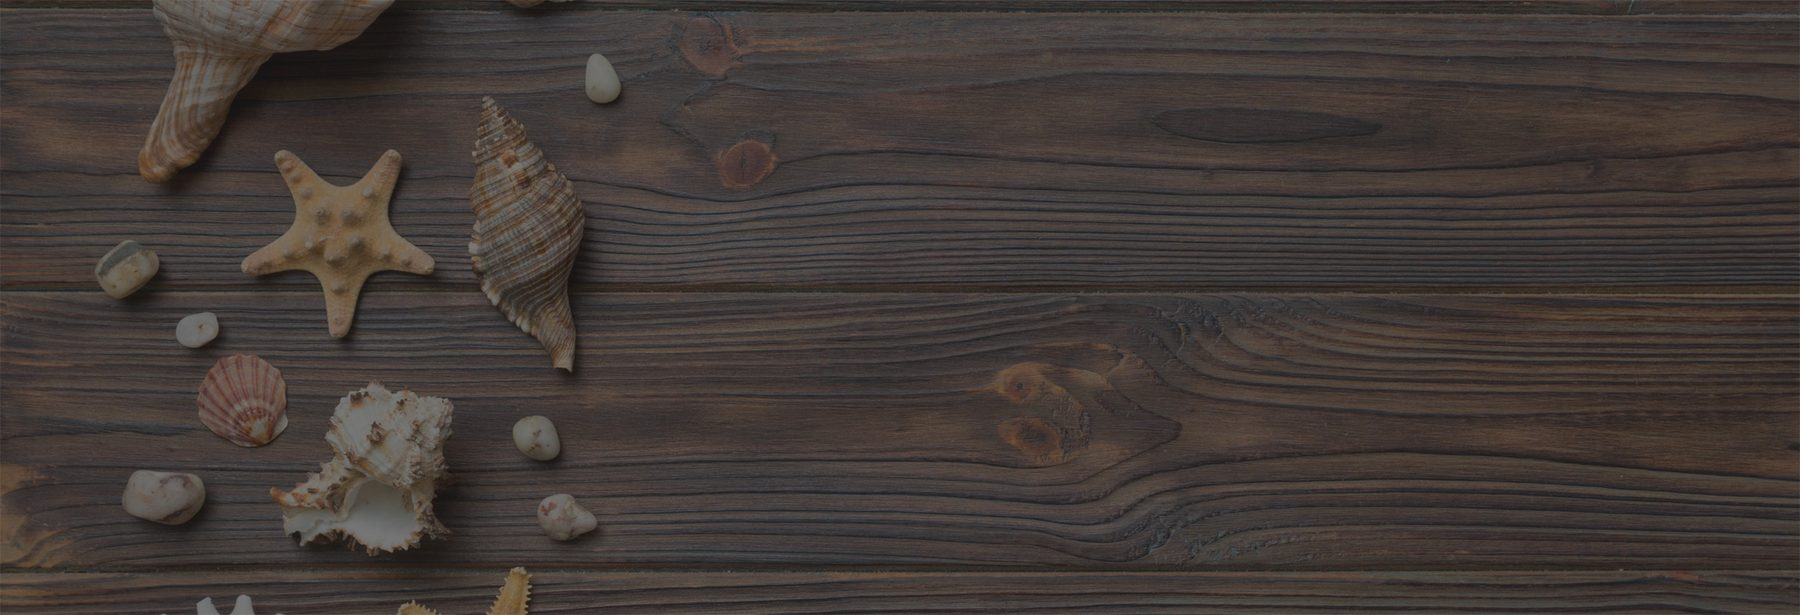
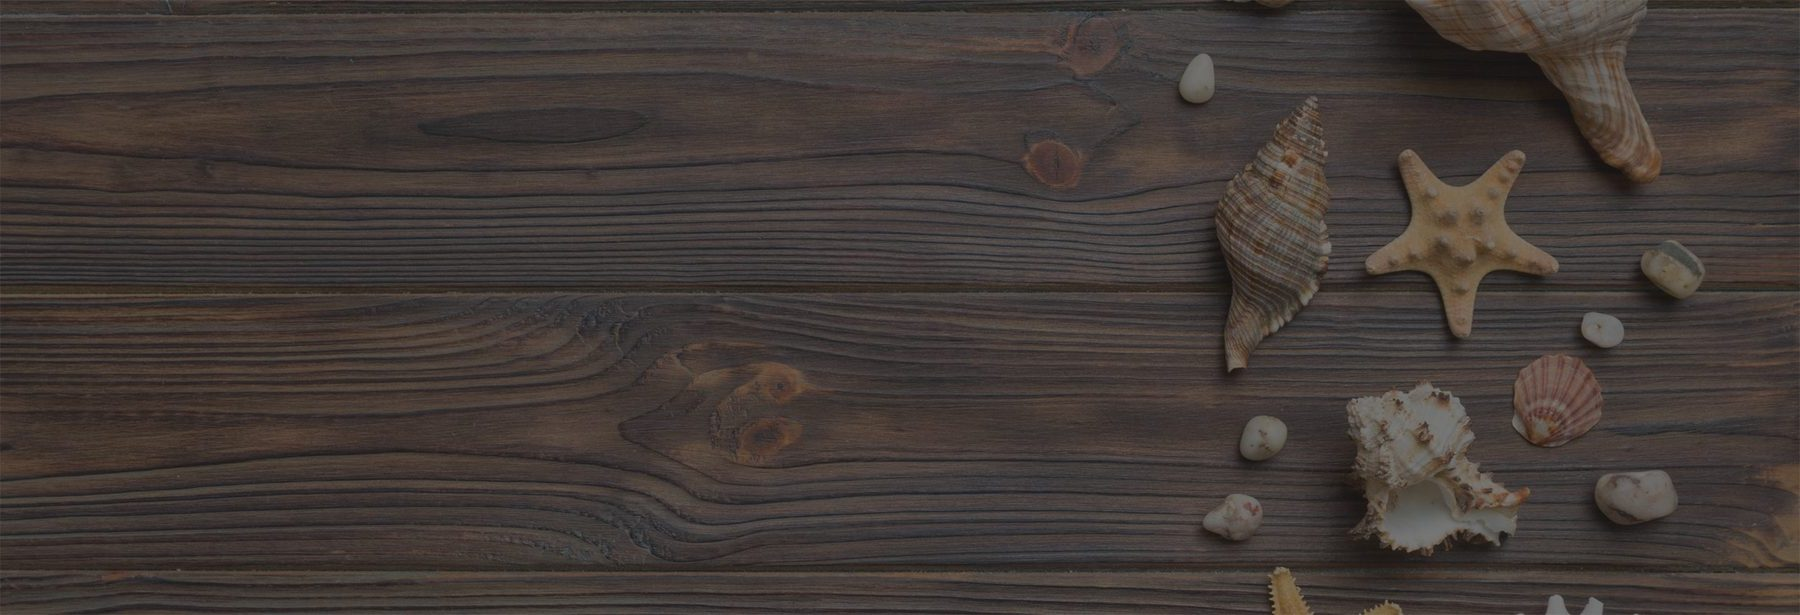
Spicebush: mirror footer photo, add warm dark wash for legibility

diff --git a/src/index.css b/src/index.css
@@ -135,7 +135,11 @@ html[data-site="spicebush"] .sb-sand-section {
  */
 html[data-site="spicebush"] .sb-footer {
   background-color: #2b2320;
-  background-image: url("/brand/spicebush/footer.jpg");
+  /* The photo ships mirrored so the shells cluster on the right, away from the
+     logo column, and a warm dark wash sits on top for legibility [zoe, 2026-09-16]. */
+  background-image:
+    linear-gradient(rgba(28, 20, 15, 0.62), rgba(28, 20, 15, 0.62)),
+    url("/brand/spicebush/footer.jpg");
   background-size: cover;
   background-position: 50% 50%;
   background-repeat: no-repeat;
